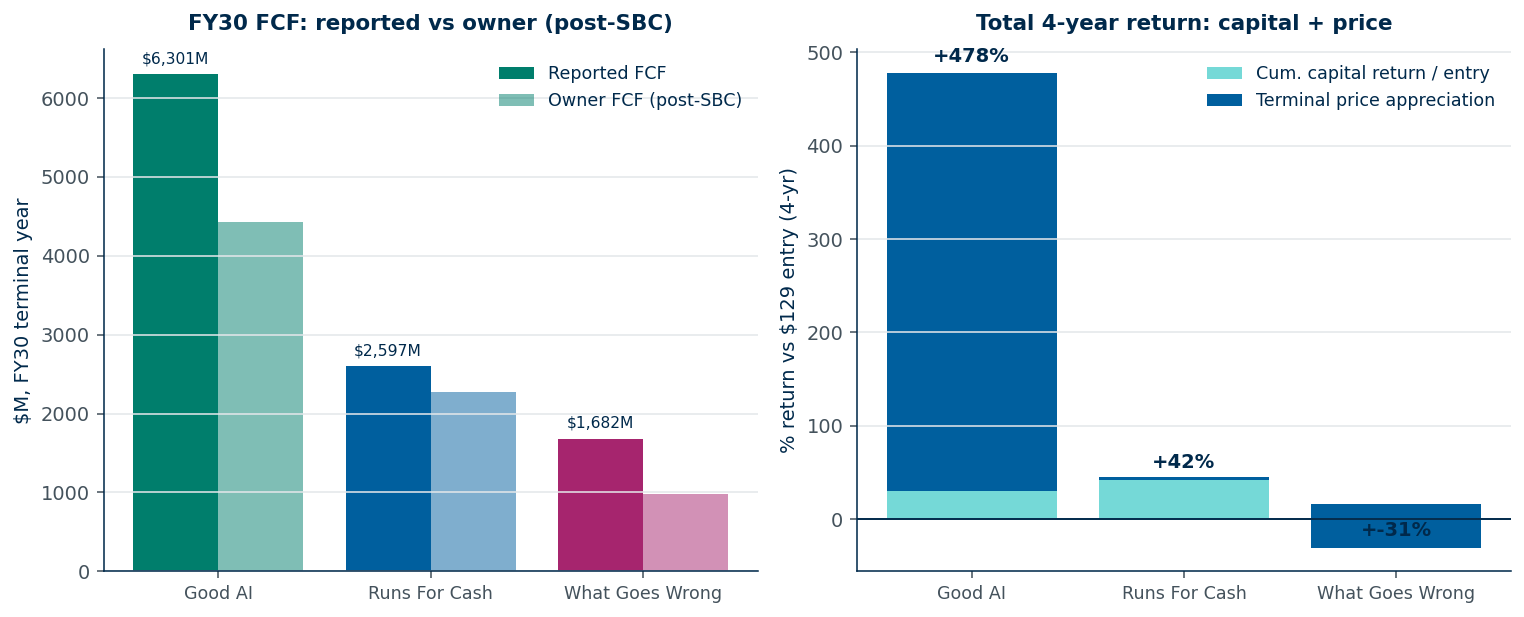
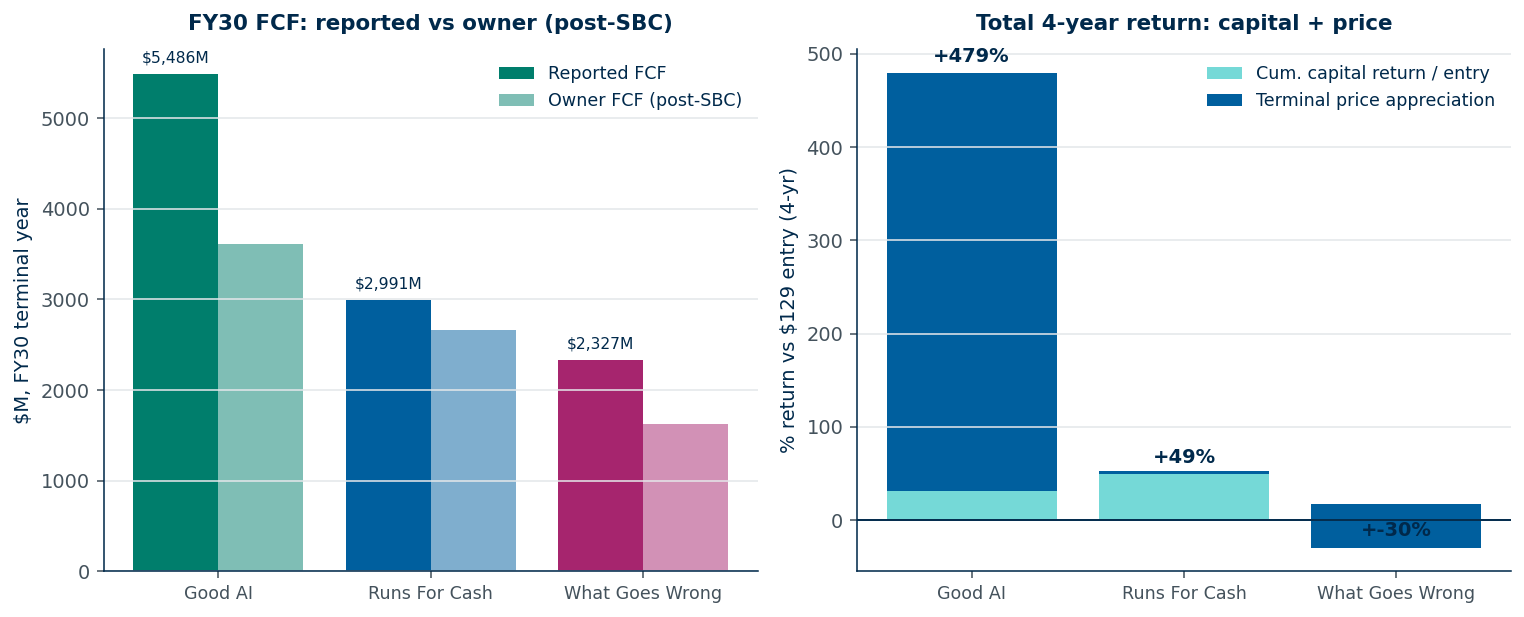
Charts: read from Excel instead of deleted JSON; Excel is source of truth

diff --git a/brief.html b/brief.html
@@ -724,6 +724,6 @@
 <p><em>Sources: Workday FY26 10-K (period ended January 31, 2026); Workday Q4 FY26 earnings release and prepared remarks; FAD 2023 / 2024 / 2025 financial analyst day presentations; build_model.py outputs in <code>data/deck_data.json</code>; wiki/00_thesis.md, wiki/10_competitive_landscape.md, wiki/20_ai_winning_cases.md, wiki/25_contribution_graph.md, wiki/30_investor_perspectives/</em>, wiki/35_hard_bear.md, wiki/40_vc_rebuttal.md, wiki/50_fde_moat.md, wiki/60_attach_rates.md, wiki/70_customer_voices.md, wiki/80_microsoft_threat.md, wiki/90_backlog_quality.md, wiki/100_eschenbach.md; audit/FACT_CHECK.md, audit/MODEL_AUDIT.md.*</p>
 <p><em>Charts generated by <code>scripts/make_charts.py</code> and <code>scripts/make_price_chart.py</code>, saved to <code>charts/</code>. Market cap $33.24B, EV $31.62B; the $3.82B debt convention includes ~$834M of operating-lease liabilities (Senior Notes alone are $2.99B). Per-share targets are computed against terminal diluted shares from the projection.</em></p>
 <div class="footer">JAOD &amp; (mainly) Claude · May 20, 2026 · <a href="index.html">Home</a></div>
-<div class="last-updated">Last updated: 2026-05-20 15:21 ET</div>
+<div class="last-updated">Last updated: 2026-05-20 15:26 ET</div>
 </body>
 </html>

diff --git a/assumptions.html b/assumptions.html
@@ -504,6 +504,6 @@
 <p>The answer the model gives is <strong>+144% over 4 years (~25% IRR)</strong> including capital return. The worst single scenario produces +18%. The genuinely hard bear (see wiki/35_hard_bear.md) produces -50%, at ~10-15% probability — included inside the 30% What Goes Wrong weight.</p>
 <p><strong>The numbers are the floor of the case, not the case itself.</strong> The case is in the brief — the disclosed AI ARR trajectory, the FDE moat, the time-to-stand-up-a-new-product advantage, the SBC unlock — and the model is what supports the conclusion that even if we're wrong about the case, the entry-price math protects us.</p>
 <div class="footer">JAOD &amp; (mainly) Claude · May 20, 2026 · <a href="index.html">Home</a></div>
-<div class="last-updated">Last updated: 2026-05-20 15:21 ET</div>
+<div class="last-updated">Last updated: 2026-05-20 15:26 ET</div>
 </body>
 </html>

diff --git a/addendum.html b/addendum.html
@@ -755,6 +755,6 @@
 <hr />
 <p><em>Sources: Workday FY26 10-K (period ended January 31, 2026); FY25 10-K, FY24 10-K (for prior expansion-vs-new disclosures); <code>data/deck_data.json</code> blocks <code>revenue_mix</code>, <code>new_vs_expansion</code>, <code>product_mix_est</code>, <code>customer_size_mix_est</code>, <code>hist</code>, scenario blocks; <code>wiki/30_investor_perspectives/</code> (Buffett, Ackman, Smith, Wood, Marks, Druckenmiller); CFO Zane Rowe investor-day commentary FY25/FY26 (customer-tier framing). Estimates flagged explicitly where used.</em></p>
 <div class="footer">JAOD &amp; (mainly) Claude · May 20, 2026 · <a href="index.html">Home</a></div>
-<div class="last-updated">Last updated: 2026-05-20 15:21 ET</div>
+<div class="last-updated">Last updated: 2026-05-20 15:26 ET</div>
 </body>
 </html>

diff --git a/ic_qa.html b/ic_qa.html
@@ -211,6 +211,6 @@
 </ol>
 <p>The trade is alive but undersized relative to the analyst's framing. The interrogation surfaced three real concessions — the 60/40 Bhusri walking to 50/50, the buyback execution risk pulling WGW TSR from -5% to -18%, and the same-store seat growth approximately zero — that don't kill the position but materially compress the asymmetry the brief asserts. The room agrees this is a defensible 3% starter in principle; in practice, with each PM funding independently, it lands closer to 2% with a hard re-vote in September.</p>
 <div class="footer">JAOD &amp; (mainly) Claude · May 20, 2026 · <a href="index.html">Home</a></div>
-<div class="last-updated">Last updated: 2026-05-20 15:21 ET</div>
+<div class="last-updated">Last updated: 2026-05-20 15:26 ET</div>
 </body>
 </html>

diff --git a/tearsheet.html b/tearsheet.html
@@ -218,6 +218,6 @@
 <p><em>Disclaimer: Author has spoken with investors who own this stock but has not discussed it with anyone invested in the past 6 months.</em></p>
 <p><em>Full brief: <code>WDAY_BRIEF.md</code>. Addendum: <code>WDAY_BRIEF_ADDENDUM.md</code>. Model: <code>WDAY_Model.xlsx</code>.</em></p>
 <div class="footer">JAOD &amp; (mainly) Claude · May 20, 2026 · <a href="index.html">Home</a></div>
-<div class="last-updated">Last updated: 2026-05-20 15:21 ET</div>
+<div class="last-updated">Last updated: 2026-05-20 15:26 ET</div>
 </body>
 </html>

diff --git a/index.html b/index.html
@@ -180,6 +180,6 @@
 <p><em>Disclaimer: Author has spoken with investors who own this stock but has not discussed it with anyone invested in the past 6 months.</em></p>
 
 <div class="footer">By JAOD &amp; (mainly) Claude · May 20, 2026 · Sources: Workday FY26 10-K, Q4 FY26 prepared remarks, FAD 2023–2025, model: <a href="WDAY_Model.xlsx">WDAY_Model.xlsx</a>.</div>
-<div class="last-updated">Last updated: 2026-05-20 15:21 ET</div>
+<div class="last-updated">Last updated: 2026-05-20 15:26 ET</div>
 </body>
 </html>
